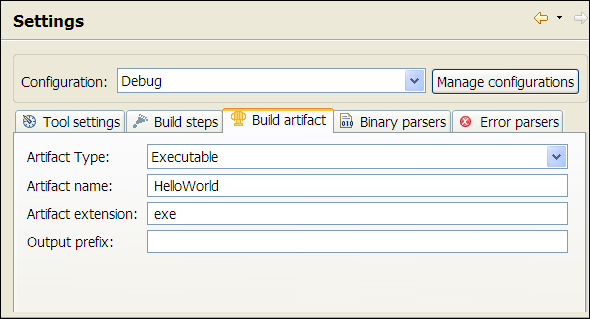
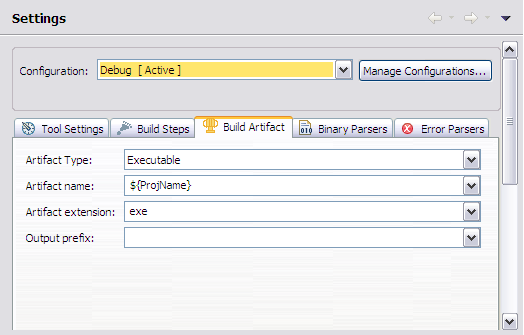
Bug 312167 - Revised Settings property tabs and images

Changed region(s): [[0.0, 0.0, 1.0, 1.0]]

diff --git a/all/org.eclipse.cdt.doc.user/reference/cdt_u_prop_build_settings_errparser.htm b/all/org.eclipse.cdt.doc.user/reference/cdt_u_prop_build_settings_errparser.htm
@@ -8,26 +8,28 @@
 </head>
 <body>
 <h1>C/C++ Project Properties,  Build, Settings, Error Parsers</h1>
-<p>Customizes the list of filters that detect error patterns in the
+<p>Use the <strong>Error Parsers</strong> properties tab to customize the list of filters that detect error patterns in the
 build output log.</p>
 <p><img img="" src="../images/prop_error.png"
  alt="C/C++ Project Properties,  Build, Settings, Error Parsers"></p>
 
-<table cellpadding="5" cellspacing="0" border="1" >
-	<br>
-		<caption><strong>Binary parser options</strong></caption>
-	<br>	
+<table cellpadding="5" cellspacing="0" border="1" width="600px" bordercolor="#DDDDDD" >
+	<caption><strong>Error Parser options</strong></caption>	
 	<colgroup>
 		<col width="30%" valign="top" >
 		<col width="70%" valign="top" >
 	</colgroup>
 	<tbody> 
+		<tr align="center">
+			<td><strong>Group</strong></td>
+			<td><strong>Description</strong></td>
+		</tr>
 		<tr>
 			<td><strong>Configuration</strong></td>
 			<td><a href="cdt_u_prop_all.htm">Click here for a description.</a></td>
 		</tr>
 		<tr>
-			<td><strong>Manage configurations</strong></td>
+			<td><strong>Manage Configurations...</strong></td>
 			<td><a href="cdt_u_prop_all.htm">Click here for a description.</a></td>
 		</tr>
 		<tr>
@@ -35,21 +37,25 @@ build output log.</p>
 			<td>Lists all of the error parsers currently known to CDT. Select the parsers that you want to use, and select the corresponding line to edit parser's options, if required.</td>
 			</tr>		
 		<tr>
-			<td><strong>Move up</strong></td>
+			<td><strong>Add...</strong></td>
+			<td>Add an error parsers to the list.</td>
+			</tr>	
+		<tr>
+			<td><strong>Edit...</strong></td>
+			<td>Edit the current error parser in the list.</td>
+			</tr>		
+		<tr>
+			<td><strong>Delete</strong></td>
+			<td>Delete the selected error parser in the list.</td>
+			</tr>		
+		<tr>
+			<td><strong>Move Up</strong></td>
 			<td>Moves the selected parser higher in list. <strong>Note:</strong> The order matters for selected parsers only: they are applied to error logs in the same sequence as defined by the user. The order is not preserved for unchecked parsers, so you do not have to move them.</td>
 			</tr>		
 		<tr>
-			<td><strong>Move down</strong></td>
+			<td><strong>Move Down</strong></td>
 			<td>Move the selected parser lower in list. <strong>Note:</strong> The order matters for selected parsers only: they are applied to error logs in the same sequence as defined by the user. The order is not preserved for unchecked parsers, so you do not have to move them.</td>
 			</tr>	
-					<tr>
-			<td><strong>Check all</strong></td>
-			<td>Selects all error parsers in the list.</td>
-			</tr>	
-								<tr>
-			<td><strong>Uncheck all</strong></td>
-			<td>Makes all error parsers in the list unselected.</td>
-			</tr>		
 	</tbody>
 </table>
 <br>
@@ -118,6 +124,7 @@ build output log.</p>
 <li><a href="cdt_u_prop_rundebug.htm">C/C++ Project Properties, Run/Debug Settings page</a>
 </ul>
 </p>
+<hr />
 <p><img src="../images/intl_07.gif" ALT="Intel Copyright Statement" ></p>
 
 </body>

diff --git a/all/org.eclipse.cdt.doc.user/reference/cdt_u_prop_build_settings_binparser.htm b/all/org.eclipse.cdt.doc.user/reference/cdt_u_prop_build_settings_binparser.htm
@@ -8,8 +8,8 @@
 </head>
 <body>
 <h1>C/C++ Project Properties, Build, Settings, Binary Parser</h1>
-<p>You can select the Binary Parsers you require for a project to
-ensure the accuracy of the C/C++ Projects view, and to successfully run
+<p>Use the <strong>Binary Parsers</strong> properties tab to
+ensure the accuracy of the <a href="cdt_u_project_explorer_view.htm">Project Explorer</a> and <a href="cdt_u_cproj_view.htm">C/C++ Projects</a> views, and to successfully run
 and debug your programs. After you select the correct parser for your
 development environment and build your project, you can view the
 symbols of the object file using the C/C++ Projects view.</p>
@@ -18,21 +18,23 @@ symbols of the object file using the C/C++ Projects view.</p>
  alt="C/C++ Project Properties, Build, Settings, Binary Parser"></p>
 
 
-<table cellpadding="5" cellspacing="0" border="1" >
-	<br>
-		<caption><strong>Binary parser options</strong></caption>
-	<br>	
+<table cellpadding="5" cellspacing="0" border="1" width="600px" bordercolor="#DDDDDD" >
+	<caption><strong>Binary parser options</strong></caption>
 	<colgroup>
 		<col width="30%" valign="top" >
 		<col width="70%" valign="top" >
 	</colgroup>
 	<tbody> 
+		<tr align="center">
+			<td><strong>Group</strong></td>
+			<td><strong>Description</strong></td>
+		</tr>
 		<tr>
 			<td><strong>Configuration</strong></td>
 			<td><a href="cdt_u_prop_all.htm">Click here for a description.</a></td>
 		</tr>
 		<tr>
-			<td><strong>Manage configurations</strong></td>
+			<td><strong>Manage Configurations...</strong></td>
 			<td><a href="cdt_u_prop_all.htm">Click here for a description.</a></td>
 		</tr>
 		<tr>
@@ -44,11 +46,11 @@ symbols of the object file using the C/C++ Projects view.</p>
 			<td>Shows the parameters for the currently selected parser in the list above. Depending on the parser you select, the options in the list will be different (in particular, some may have no options at all).</td>
 			</tr>	
 		<tr>
-			<td><strong>Move up</strong></td>
+			<td><strong>Move Up</strong></td>
 			<td>Moves the selected parser higher in list. <strong>Note:</strong> The order matters for selected parsers only: they are applied to binaries in the same sequence as defined by the user. The order is not preserved for unchecked parsers, so you do not have to move them.</td>
 			</tr>		
 		<tr>
-			<td><strong>Move down</strong></td>
+			<td><strong>Move Down</strong></td>
 			<td>Move the selected parser lower in list. <strong>Note:</strong> The order matters for selected parsers only: they are applied to binaries in the same sequence as defined by the user. The order is not preserved for unchecked parsers, so you do not have to move them.</td>
 			</tr>		
 	</tbody>
@@ -120,6 +122,7 @@ symbols of the object file using the C/C++ Projects view.</p>
 <li><a href="cdt_u_prop_rundebug.htm">C/C++ Project Properties, Run/Debug Settings page</a>
 </ul>
 </p>
+<hr />
 <p><img src="../images/intl_07.gif" ALT="Intel Copyright Statement" ></p>
 
 </body>

diff --git a/all/org.eclipse.cdt.doc.user/reference/cdt_u_prop_build_settings_artifact.htm b/all/org.eclipse.cdt.doc.user/reference/cdt_u_prop_build_settings_artifact.htm
@@ -5,29 +5,32 @@
   <meta http-equiv="Content-Type" content="text/html; charset=utf-8">
   <title>C/C++ Properties, Build, Settings, Build Artifact tab</title>
   <link rel="stylesheet" type="text/css" href="../help.css">
+  <script language="JavaScript" src="PLUGINS_ROOT/org.eclipse.help/livehelp.js"></script>
 </head>
 <body>
 <h1>C/C++ Properties, Build, Settings, Build Artifact tab</h1>
-<p>Lets you specify build artifact information, such as the type and name, that gets built by the selected build configuration.</p>
+<p>Use the <strong>Build Artifacts</strong> properties tab to specify build artifact information, such as the type and name, that gets built by the selected build configuration.</p>
 <p><img img="" src="../images/prop_artifact.png"
  alt="C/C++ Properties, Build, Settings, Build Artifact tab"></p>
 <p></p>
 
-<table cellpadding="5" cellspacing="0" border="1" >
-	<br>
-		<caption><strong>Build artifact options</strong></caption>
-	<br>	
+<table cellpadding="4" cellspacing="0" border="1" bordercolor="#DDDDDD" width="600px" >
+	<caption><strong>Build artifact options</strong></caption>
 	<colgroup>
 		<col width="30%" valign="top" >
 		<col width="70%" valign="top" >
 	</colgroup>
+		<tr align="center">
+			<td><strong>Group</strong></td>
+			<td><strong>Description</strong></td>
+		</tr>
 	<tbody> 
 		<tr>
 			<td><strong>Configuration</strong></td>
 			<td><a href="cdt_u_prop_all.htm">Click here for a description.</a></td>
 		</tr>
 		<tr>
-			<td><strong>Manage configurations</strong></td>
+			<td><strong>Manage Configurations...</strong></td>
 			<td><a href="cdt_u_prop_all.htm">Click here for a description.</a></td>
 		</tr>
 		<tr>
@@ -109,6 +112,7 @@
 <li><a href="cdt_u_prop_rundebug.htm">C/C++ Project Properties, Run/Debug Settings page</a>
 </ul>
 </p>
+<hr />
 <p><img src="../images/intl_07.gif" ALT="Intel Copyright Statement" ></p>
 
 </body>

diff --git a/all/org.eclipse.cdt.doc.user/reference/cdt_u_prop_build_settings_steps.htm b/all/org.eclipse.cdt.doc.user/reference/cdt_u_prop_build_settings_steps.htm
@@ -8,7 +8,7 @@
 </head>
 <body>
 <h1>C/C++ Properties, Build, Settings, Build Steps tab</h1>
-<p>Customizes the selected build configuration allowing for the specification
+<p>Use the <strong>Build Steps</strong> properties tab to customize the selected build configuration allowing for the specification
 of user defined build command steps, as well displaying a descriptive message
 in the build output, immediately before and after, normal build
 processing executes.</p>
@@ -26,21 +26,23 @@ sequence of commands to execute when a build is invoked, not
 including pre-build or post-build steps.<br>
 </p>
 
-<table cellpadding="5" cellspacing="0" border="1" >
-	<br>
-		<caption><strong>Build step options</strong></caption>
-	<br>	
+<table cellpadding="5" cellspacing="0" border="1" width="600px" bordercolor="#DDDDDD" >
+	<caption><strong>Build step options</strong></caption>	
 	<colgroup>
 		<col width="30%" valign="top" >
 		<col width="70%" valign="top" >
 	</colgroup>
 	<tbody> 
+		<tr align="center">
+			<td><strong>Group</strong></td>
+			<td><strong>Description</strong></td>
+		</tr>
 		<tr>
 			<td><strong>Configuration</strong></td>
 			<td><a href="cdt_u_prop_all.htm">Click here for a description.</a></td>
 		</tr>
 		<tr>
-			<td><strong>Manage configurations</strong></td>
+			<td><strong>Manage Configurations...</strong></td>
 			<td><a href="cdt_u_prop_all.htm">Click here for a description.</a></td>
 		</tr>
 		<tr>
@@ -134,6 +136,7 @@ including pre-build or post-build steps.<br>
 <li><a href="cdt_u_prop_rundebug.htm">C/C++ Project Properties, Run/Debug Settings page</a>
 </ul>
 </p>
+<hr />
 <p><img src="../images/intl_07.gif" ALT="Intel Copyright Statement" ></p>
 
 </body>

diff --git a/all/org.eclipse.cdt.doc.user/reference/cdt_u_prop_build_settings_tool.htm b/all/org.eclipse.cdt.doc.user/reference/cdt_u_prop_build_settings_tool.htm
@@ -8,26 +8,28 @@
 </head>
 <body>
 <h1>C/C++ Project Properties, Build, Settings, Tool settings tab</h1>
-Customizes the tools and tool options used in your build configuration.
+Use the <strong>Tool Settings</strong> properties tab to customize the tools and tool options used in your build configuration.
 <p><img img="" src="../images/prop_tool.png"
  alt="C/C++ Project Properties, Build, Settings, Tool Settings tab"></p>
 <p></p>
 
-<table cellpadding="5" cellspacing="0" border="1" >
-	<br>
-		<caption><strong>Tool settings options</strong></caption>
-	<br>	
+<table cellpadding="5" cellspacing="0" border="1" width="600px" bordercolor="#DDDDDD" >
+	<caption><strong>Tool settings options</strong></caption>
 	<colgroup>
 		<col width="30%" valign="top" >
 		<col width="70%" valign="top" >
 	</colgroup>
 	<tbody> 
+		<tr align="center">
+			<td><strong>Group</strong></td>
+			<td><strong>Description</strong></td>
+		</tr>
 		<tr>
 			<td><strong>Configuration</strong></td>
 			<td><a href="cdt_u_prop_all.htm">Click here for a description.</a></td>
 		</tr>
 		<tr>
-			<td><strong>Manage configurations</strong></td>
+			<td><strong>Manage Configurations...</strong></td>
 			<td><a href="cdt_u_prop_all.htm">Click here for a description.</a></td>
 		</tr>
 		<tr>
@@ -100,6 +102,7 @@ Customizes the tools and tool options used in your build configuration.
 <li><a href="cdt_u_prop_rundebug.htm">C/C++ Project Properties, Run/Debug Settings page</a>
 </ul>
 </p>
+<hr />
 <p><img src="../images/intl_07.gif" ALT="Intel Copyright Statement" ></p>
 
 </body>
